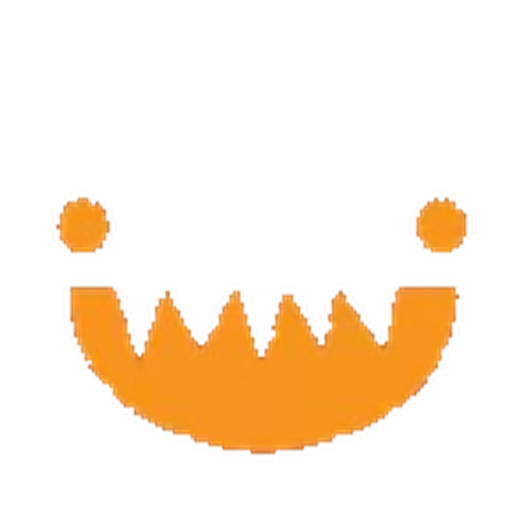
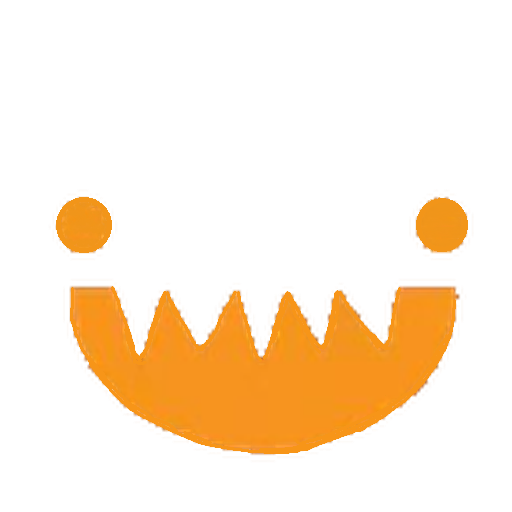
Prevent mid-volley progress saves

diff --git a/tests/gameState.test.js b/tests/gameState.test.js
@@ -197,11 +197,6 @@ test("progress snapshot omits volatile flight state and restores settled balls",
   state.balls = Array.from({ length: 3 }, () => ({ ...state.balls[0] }));
   state.particles = [{ x: 10, y: 20, vx: 1, vy: 2, life: 1, maxLife: 1, tone: "hit" }];
 
-  game.startAim({ x: 360, y: 800 });
-  game.updateAim({ x: 500, y: 300 });
-  game.releaseAim({ x: 500, y: 300 });
-  game.update(0.016);
-
   const snapshot = game.exportSnapshot({ includeVolatile: false });
   assert.equal(snapshot.state, "aiming");
   assert.equal(snapshot.ballsOwned, 3);
@@ -209,6 +204,15 @@ test("progress snapshot omits volatile flight state and restores settled balls",
   assert.equal(snapshot.returnedBalls, 0);
   assert.equal(Object.hasOwn(snapshot, "balls"), false);
   assert.equal(Object.hasOwn(snapshot, "particles"), false);
+
+  game.startAim({ x: 360, y: 800 });
+  game.updateAim({ x: 220, y: 920 });
+  game.releaseAim({ x: 220, y: 920 });
+  game.update(0.016);
+
+  assert.equal(game.exportSnapshot({ includeVolatile: false }), null);
+  state.state = "resolving";
+  assert.equal(game.exportSnapshot({ includeVolatile: false }), null);
 
   const restored = createGameController({
     boardGenerator: createBoardGenerator([{ blocks: [], pickups: [] }]),

diff --git a/tests/run.js b/tests/run.js
@@ -567,11 +567,6 @@ test("progress snapshot omits volatile flight state and restores settled balls",
   state.balls = Array.from({ length: 3 }, () => ({ ...state.balls[0] }));
   state.particles = [{ x: 10, y: 20, vx: 1, vy: 2, life: 1, maxLife: 1, tone: "hit" }];
 
-  game.startAim({ x: 360, y: 800 });
-  game.updateAim({ x: 500, y: 300 });
-  game.releaseAim({ x: 500, y: 300 });
-  game.update(0.016);
-
   const snapshot = game.exportSnapshot({ includeVolatile: false });
   assert.equal(snapshot.state, "aiming");
   assert.equal(snapshot.ballsOwned, 3);
@@ -580,6 +575,15 @@ test("progress snapshot omits volatile flight state and restores settled balls",
   assert.equal(Object.hasOwn(snapshot, "balls"), false);
   assert.equal(Object.hasOwn(snapshot, "particles"), false);
   assert.equal(Object.hasOwn(snapshot, "skins"), false);
+
+  game.startAim({ x: 360, y: 800 });
+  game.updateAim({ x: 220, y: 920 });
+  game.releaseAim({ x: 220, y: 920 });
+  game.update(0.016);
+
+  assert.equal(game.exportSnapshot({ includeVolatile: false }), null);
+  state.state = "resolving";
+  assert.equal(game.exportSnapshot({ includeVolatile: false }), null);
 
   const restored = createGameController({
     initialSkins: {

diff --git a/src/miniGameApp.wx.js b/src/miniGameApp.wx.js
@@ -7556,10 +7556,13 @@ export function bootMiniGame(wxApi = globalThis.wx) {
 
     if (pointerActive) {
       pointerActive = false;
-      const stateBeforeRelease = game.getState();
+      const stateBeforeRelease = game.getState().state;
+      if (stateBeforeRelease === "aiming") {
+        persistProgress(true);
+      }
       game.releaseAim(toGamePoint(point));
       const stateAfterRelease = game.getState();
-      if (stateBeforeRelease.state === "aiming" && stateAfterRelease.state !== "aiming") {
+      if (stateBeforeRelease === "aiming" && stateAfterRelease.state !== "aiming") {
         tutorialDismissed = true;
       }
     }

diff --git a/src/gameState.js b/src/gameState.js
@@ -496,6 +496,10 @@ export function createGameController({
     }
 
     const includeVolatile = options.includeVolatile !== false;
+    if (!includeVolatile && gameState.state !== "aiming") {
+      return null;
+    }
+
     const state = includeVolatile || gameState.state === "aiming" ? gameState.state : "aiming";
     const snapshot = {
       round: gameState.round,